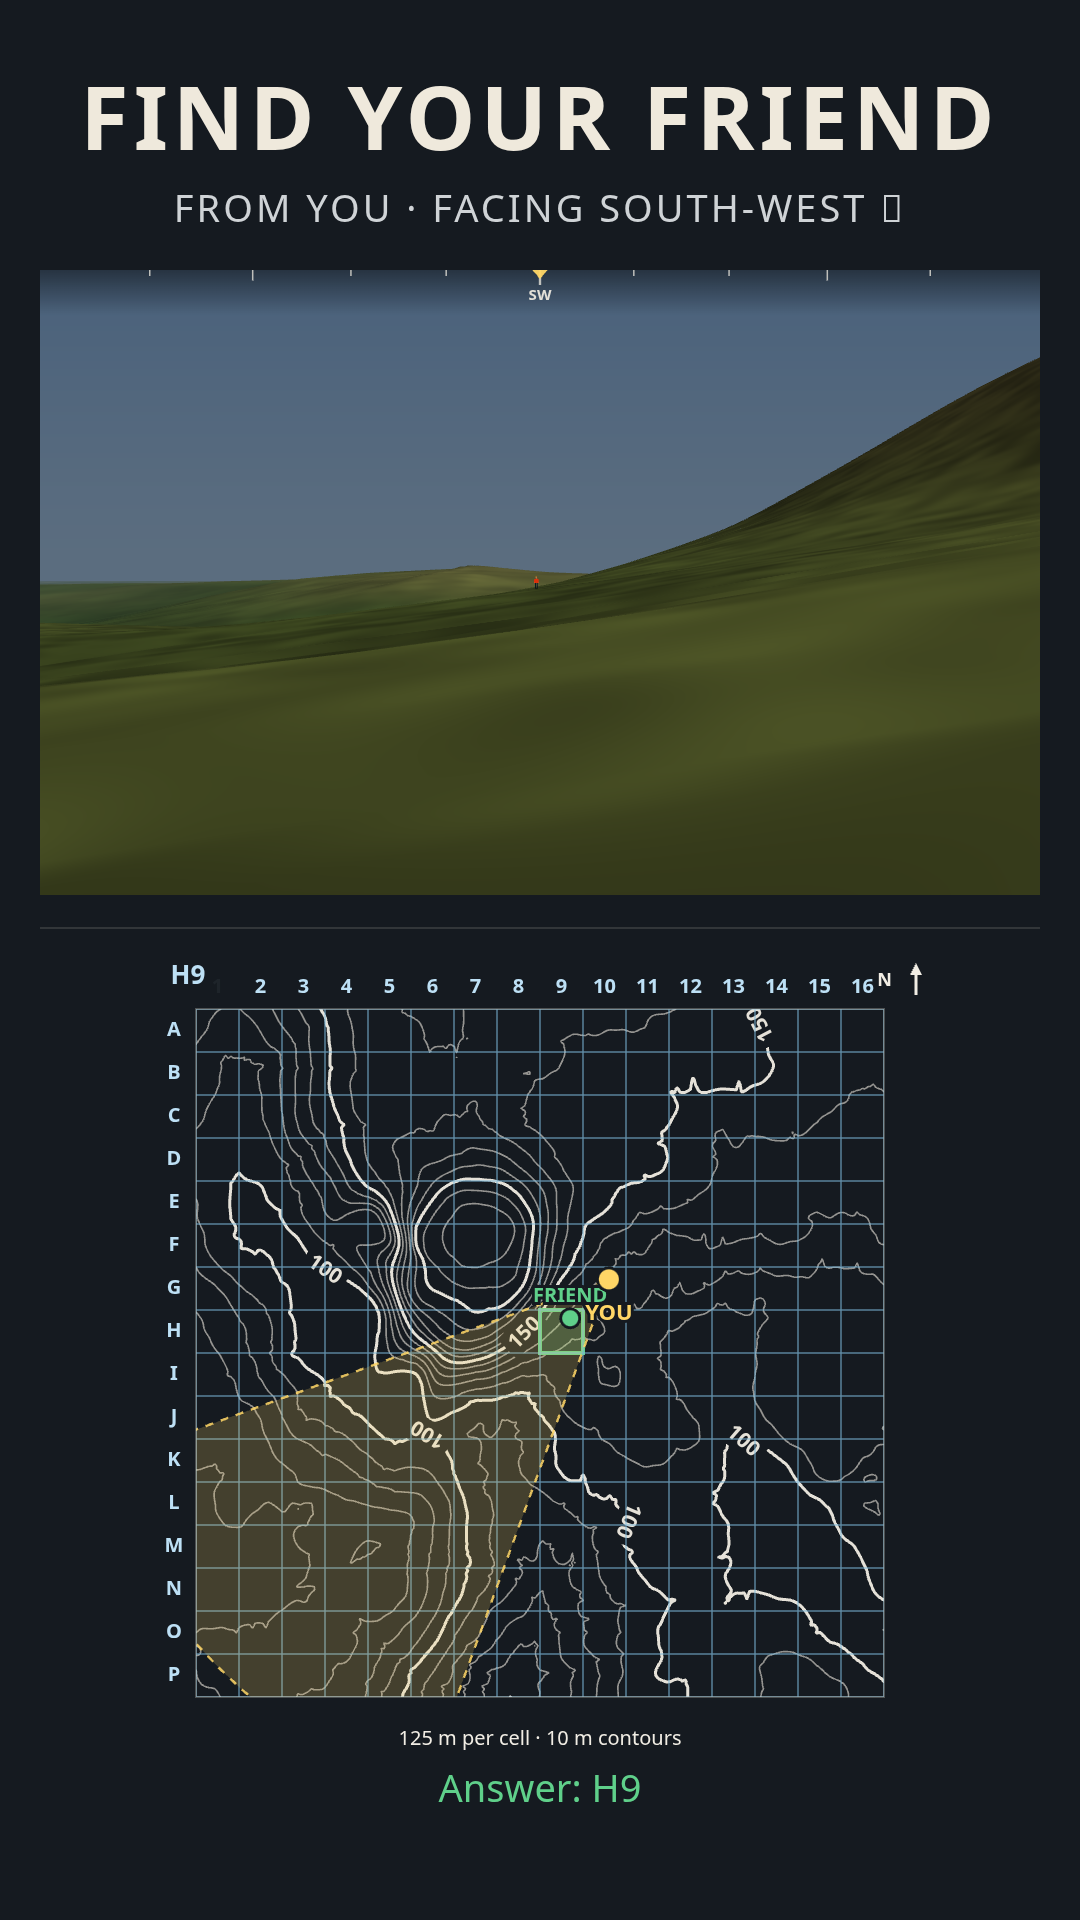
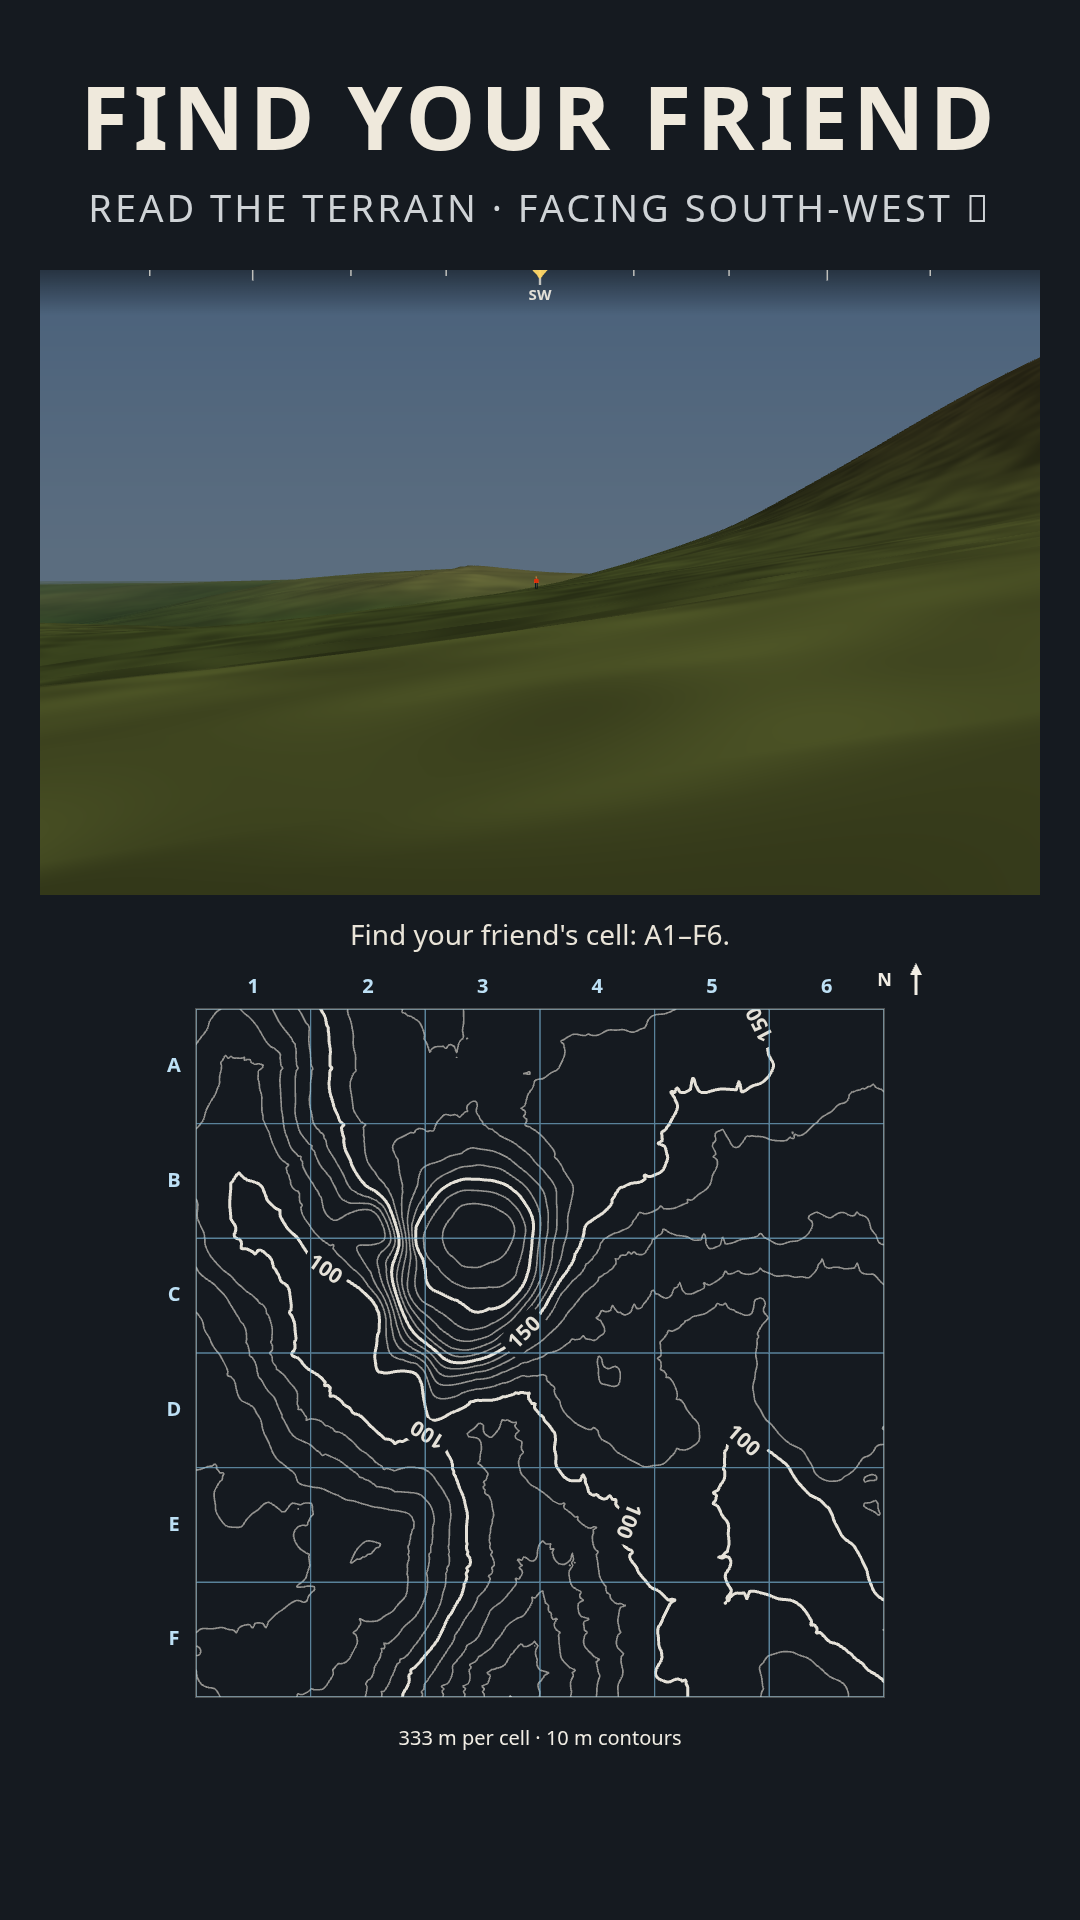
Keep grid contours clear and add six-by-six quizzes

diff --git a/index.html b/index.html
@@ -62,6 +62,7 @@
         <span>Grid size</span>
         <select id="grid-size" aria-label="Grid size">
           <option value="4">4 × 4 grid</option>
+          <option value="6">6 × 6 grid</option>
           <option value="8">8 × 8 grid</option>
           <option value="16">16 × 16 grid</option>
         </select>
@@ -231,7 +232,7 @@
         <p>Observer positions are scored on skyline, landmarks and occlusion. Distractors are picked from spots whose view, facing the same way, looks similar but can still be told apart.</p>
         <p>Master mode fully evaluates dozens of viewpoints and keeps the question whose distractors are hardest to rule out. Every distractor still differs visibly somewhere in the scene, and the answer screen shows where.</p>
         <p>"Which way are you facing?" marks where you stand and hides the heading. Pick the one of 8 directions whose view matches, which works best by comparing the skyline with the contours around the point.</p>
-        <p>Grid method divides the map into 4 × 4, 8 × 8 or 16 × 16 cells. Rows A–P run from north to south; columns 1–16 run from west to east. You stand at a cell centre. Tap that cell or enter its code, then check your answer. Lost compass hides the heading, so you must work out the view's direction from the terrain too.</p>
+        <p>Grid method divides the map into 4 × 4, 6 × 6, 8 × 8 or 16 × 16 cells. Rows A–P run from north to south; columns 1–16 run from west to east. You stand at a cell centre. Tap that cell or enter its code, then check your answer. Lost compass hides the heading, so you must work out the view's direction from the terrain too.</p>
         <p>Where is your friend? See an orange-jacketed, 1.80 m person from your own viewpoint and choose his position at A, B or C. Easy marks where you stand as YOU. Medium and above leave your position unmarked and match the three answers for range, bearing and apparent size: read the skyline, slopes and hollows to locate him. Higher levels select more similar terrain; Depth trap also matches the person’s elevation angle more closely. After answering, YOU is revealed and you can compare the possible observer view for each answer. Zoom helps inspect the person without changing your position.</p>
         <p>Bunny-hop trails plays a 12-second first-person run across the terrain with original CS 1.6 Classic, CS:GO Default or Butterfly green-screen footage. Which path did you follow: A red, B green or C cyan? All three map traces advance together and share their shape, speed and turns. Match the moving skyline and nearby slopes. After answering, replay each candidate and compare its terrain clues. Space pauses, F replays the knife animation, and the timeline replays any moment. Video exports use the same run and reveal the answer in the final 3 seconds.</p>
         <p class="keys">Keys: <kbd>A</kbd>–<kbd>D</kbd> answer · <kbd>S</kbd> scramble letters · <kbd>P</kbd> new positions · <kbd>N</kbd> new quiz · "Which way?": <kbd>Q</kbd><kbd>W</kbd><kbd>E</kbd> / <kbd>A</kbd><kbd>D</kbd> / <kbd>Z</kbd><kbd>X</kbd><kbd>C</kbd> as a compass rose</p>

diff --git a/src/ui/app.js b/src/ui/app.js
@@ -274,13 +274,14 @@ function show(quiz) {
   $('facing-arrow').textContent = quiz.mode === 'trail' || headingHidden(quiz) || quiz.heading.mode === 'exact' ? '' : quiz.heading.arrow;
   $('prompt').textContent = facing ? 'You stand at the marked point. Which of the 8 directions are you looking in?'
     : lookalike ? 'A, B and C have similar views in this direction. Match the ridge shapes and foreground to find your point.'
-    : friendGrid ? `Find the orange-jacketed person's cell.${quiz.friend.observerHidden ? ' Your own position is unmarked; read the skyline, slopes and hollows.' : ' You stand at YOU; use bearing, apparent size and the terrain.'} Tap a cell or type its code, then check your answer. Rows start at north; columns start at west. Locate your friend, not your own cell.`
-    : grid ? `You stand at a cell centre.${headingHidden(quiz) ? ' Your heading is one of 8 directions, hidden until you answer.' : ''} Tap your cell or type its code, then check your answer. Rows start at north; columns start at west.`
+    : grid ? `${friendGrid ? "Locate your friend's cell" : 'Find your cell'}: A1–${String.fromCharCode(64 + quiz.grid.size)}${quiz.grid.size} (row + column, e.g. B3).`
     : quiz.mode === 'trail' ? 'Which trail did you follow: A red, B green or C cyan? All three traces advance together. Match the slopes, ridges and hollows in the moving view. Circles mark the starts; arrows mark the ends.'
     : quiz.mode === 'friend' ? quiz.friend.observerHidden
       ? `Where is the person in the orange jacket: A, B or C? Your position is unmarked. All three spots fit his distance and apparent size; use the skyline, slopes and hollows to locate him.${quiz.friend.challenge === 'depth-trap' ? ' Depth trap also matches his vertical angle more closely.' : ''}`
       : `You stand at YOU. Where is the person in the orange jacket: A, B or C?${quiz.friend.challenge === 'depth-trap' ? ' All three spots share a bearing — compare distance, apparent size and slope.' : ' Match his position to the surrounding terrain.'}`
     : 'You are at one of the marked points, facing the direction shown. Which one?';
+  $('prompt').classList.toggle('grid-remark', grid);
+  (grid ? document.querySelector('.map-wrap') : document.querySelector('.answer-row')).before($('prompt'));
   $('credit').textContent = `seed ${quiz.seed}${quiz.variant ? ` · positions #${quiz.variant}` : ''} · ${DIFFICULTIES[quiz.difficulty].label.toLowerCase()} · ${Math.round(t.size / 1000 * 10) / 10} km × ${Math.round(t.size / 1000 * 10) / 10} km`;
   $('viewing-badge').hidden = true;
   $('result').hidden = true;

diff --git a/src/export/composer.js b/src/export/composer.js
@@ -124,6 +124,7 @@ export class ExportComposer {
         title: { y: 150, size: 88 }, facing: { y: 222, size: 38 },
         scene: { x: m, y: 270, w: sceneW, h: sceneH },
         rule: 270 + sceneH + 32,
+        remark: { y: 270 + sceneH + 50, size: 28 },
         map: { x: (W - map) / 2, y: 270 + sceneH + 58, s: map },
         caption: { y: H - 118, size: 38 }, handle: { y: H - 56, size: 28 },
       };
@@ -135,6 +136,7 @@ export class ExportComposer {
       title: { y: 100, size: 66 }, facing: { y: 152, size: 30 },
       scene: { x: m, y: 185, w: sceneW, h: sceneH },
       rule: 185 + sceneH + 18,
+      remark: { y: 185 + sceneH + 46, size: 26 },
       map: { x: (W - map) / 2, y: 185 + sceneH + 30, s: map },
       caption: null, handle: { y: H - 22, size: 24 },
     };
@@ -221,8 +223,10 @@ export class ExportComposer {
       ctx.fillRect(S.x, S.y + S.h + 8, S.w * p, 6);
     }
 
-    ctx.fillStyle = 'rgba(230, 226, 214, 0.14)';
-    ctx.fillRect(S.x, L.rule, S.w, 2);
+    if (!q.grid) {
+      ctx.fillStyle = 'rgba(230, 226, 214, 0.14)';
+      ctx.fillRect(S.x, L.rule, S.w, 2);
+    }
 
     const M = L.map;
     if (frame) {
@@ -236,11 +240,17 @@ export class ExportComposer {
     ctx.drawImage(reveal ? this.mapRevealCanvas : this.mapCanvas, M.x, M.y, M.s, M.s);
 
     ctx.textAlign = 'center';
-    if (L.caption && this.options.caption) {
+    if (q.grid && (this.options.caption || reveal)) {
+      // One remark above the grid in both formats, including video frames.
+      // Draw after the map so its empty header margin cannot erase the text.
+      ctx.font = `500 ${L.remark.size}px ${FONT}`;
+      ctx.fillStyle = reveal ? '#5fd08a' : '#e9e4d8';
+      ctx.fillText(reveal ? `Answer: ${q.correctLabel}` : captionText(q), W / 2, L.remark.y, W - 80);
+    } else if (!q.grid && L.caption && this.options.caption) {
       ctx.font = `500 ${L.caption.size}px ${FONT}`;
       ctx.fillStyle = reveal ? '#5fd08a' : '#e9e4d8';
       ctx.fillText(reveal ? `Answer: ${q.correctLabel}` : captionText(q), W / 2, L.caption.y);
-    } else if (reveal) {
+    } else if (!q.grid && reveal) {
       this.drawBadge(`Answer: ${q.correctLabel}`, W / 2, M.y + 34);
     }
     if (this.options.handle) {

diff --git a/test/grid-quiz.test.js b/test/grid-quiz.test.js
@@ -9,7 +9,7 @@ import { scrambleLabels } from '../src/engine/scramble.js';
 import { captionText } from '../src/export/composer.js';
 
 test('grid references run A1 west to east, then B1 north to south', () => {
-  for (const n of [4, 8, 16]) {
+  for (const n of [4, 6, 8, 16]) {
     const cells = gridCells(2000, n);
     assert.equal(cells.length, n * n);
     assert.equal(new Set(cells.map((p) => p.label)).size, n * n);
@@ -26,9 +26,13 @@ test('grid references run A1 west to east, then B1 north to south', () => {
 test('cell input accepts compact or spaced codes and rejects out-of-grid codes', () => {
   assert.equal(parseCell(' b 3 ', 4), 'B3');
   assert.equal(parseCell('p16', 16), 'P16');
+  assert.equal(parseCell('f6', 6), 'F6');
+  assert.equal(parseCell('G1', 6), null);
+  assert.equal(parseCell('A7', 6), null);
   for (const value of ['A0', 'A01', 'A5', 'E1', 'A1junk', '<b>A1</b>', '', '11']) assert.equal(parseCell(value, 4), null);
   assert.equal(parseCell('P17', 16), null);
   assert.equal(normaliseGridSize('8'), 8);
+  assert.equal(normaliseGridSize('6'), 6);
   assert.equal(normaliseGridSize('invalid'), 4);
 });
 
@@ -49,7 +53,7 @@ test('rotating the display preserves grid references and pointer hit testing', (
   }
 });
 
-for (const gridSize of [4, 8, 16]) for (const gridChallenge of ['standard', 'lost-compass']) {
+for (const gridSize of [4, 6, 8, 16]) for (const gridChallenge of ['standard', 'lost-compass']) {
   test(`${gridSize}×${gridSize} ${gridChallenge} creates a validated cell-centre question`, async () => {
     const q = await generate({ seed: 'grid-check', mode: 'grid', gridSize, gridChallenge, difficulty: 'medium' });
     assert.equal(q.mode, 'grid');

diff --git a/src/render/mapRenderer.js b/src/render/mapRenderer.js
@@ -328,23 +328,12 @@ export class MapRenderer {
       ctx.lineWidth = 3; ctx.strokeStyle = COLORS.bg; ctx.strokeText(text, x, y);
       ctx.fillStyle = '#bde0f5'; ctx.fillText(text, x, y);
     };
-    // Headers rotate with the terrain, while text stays upright. Dense mobile
-    // grids use these headers instead of covering contours with 256 tiny codes.
+    // References come from the edge headers; keep cell interiors clear so the
+    // contours stay readable at every grid size. Text stays upright on rotation.
     const offset = 11 / this.S * L;
     for (let i = 0; i < n; i++) {
       label(String(i + 1), ...this.toCanvas(left + (i + 0.5) / n * L, bottom + L + offset));
       label(String.fromCharCode(65 + i), ...this.toCanvas(left - offset, bottom + L - (i + 0.5) / n * L));
-    }
-    if (n <= 8 || this.S / n >= 30) {
-      const font = Math.min(11, Math.max(8, this.S / n * 0.23));
-      for (let row = 0; row < n; row++) for (let col = 0; col < n; col++) {
-        label(`${String.fromCharCode(65 + row)}${col + 1}`, ...this.toCanvas(left + (col + 0.5) / n * L, bottom + L - (row + 0.5) / n * L), font);
-      }
-    }
-    const active = this.reveal ? this.data.grid.correctLabel : this.selection || (this.pickable ? this.hover : null);
-    if (active) {
-      ctx.fillStyle = 'rgba(21,26,32,0.95)'; ctx.fillRect(0, 0, 48, 24);
-      label(active, 24, 12, 13);
     }
   }
 

diff --git a/test/friend-grid.test.js b/test/friend-grid.test.js
@@ -6,7 +6,7 @@ import { MapRenderer, quizMarkers } from '../src/render/mapRenderer.js';
 import { ExportComposer, captionText } from '../src/export/composer.js';
 import { scrambleLabels } from '../src/engine/scramble.js';
 
-for (const difficulty of ['easy', 'medium']) for (const gridSize of [4, 8, 16]) {
+for (const difficulty of ['easy', 'medium']) for (const gridSize of [4, 6, 8, 16]) {
   test(`${difficulty} friend grid ${gridSize} scores the person's cell and preserves the qualified sighting`, async () => {
     const opts = { seed: 'friend-demo', mode: 'friend', difficulty };
     const point = await generate(opts);

diff --git a/src/engine/gridQuiz.js b/src/engine/gridQuiz.js
@@ -9,7 +9,7 @@ import { distinguishingCue } from './quizCandidates.js';
 import { buildTerrain, terrainSummary, landmarkSummary, framingPitch, now } from './quiz.js';
 import { saturate } from './grid.js';
 
-export const GRID_SIZES = [4, 8, 16];
+export const GRID_SIZES = [4, 6, 8, 16];
 export const normaliseGridSize = (value) => GRID_SIZES.includes(Number(value)) ? Number(value) : 4;
 export const normaliseGridChallenge = (value) => value === 'lost-compass' ? value : 'standard';
 export const headingHidden = (quiz) => quiz.mode === 'facing' || (quiz.mode === 'grid' && quiz.grid.challenge === 'lost-compass');

diff --git a/styles.css b/styles.css
@@ -79,6 +79,7 @@ body {
 .map-wrap canvas { width: 100%; height: 100%; display: block; }
 
 .prompt { text-align: center; color: var(--muted); margin: 10px 0 8px; font-size: 14px; }
+.prompt.grid-remark { margin: 0 0 8px; }
 .answer-row { display: flex; flex-direction: column; align-items: center; gap: 10px; }
 .scramble { display: inline-flex; align-items: center; gap: 6px; font-size: 13px; padding: 6px 12px; }
 .scramble svg { width: 16px; height: 16px; }

diff --git a/docs/friend-mode.md b/docs/friend-mode.md
@@ -2,13 +2,13 @@
 
 Choose **Where is your friend?** in Mode. The orange-jacketed, 1.80 m person is seen from your own observation point. Choose his map position at A, B or C.
 
-Choose **Find friend by → Grid** to locate him by cell reference instead. Pick a **4 × 4**, **8 × 8** or **16 × 16** grid, tap his cell or type a code such as `B3`, then press **Check cell**. Selection does not submit immediately. Rows run north to south and columns west to east; references follow the terrain when the map rotates.
+Choose **Find friend by → Grid** to locate him by cell reference instead. Pick a **4 × 4**, **6 × 6**, **8 × 8** or **16 × 16** grid, tap his cell or type a code such as `B3`, then press **Check cell**. Selection does not submit immediately. Rows run north to south and columns west to east; references follow the terrain when the map rotates. Only the edge headers carry labels, leaving the contours inside each cell clear. The instruction appears once, between the view and map, in the app and in PNG/video exports.
 
 Grid scores the cell containing **your friend**, not the observer. The person keeps his real world position and may stand anywhere inside a cell. The answer highlights his cell green, a wrong choice red, and marks his exact location **FRIEND** alongside the observer **YOU**. Zoom remains available from the original viewpoint. Easy's grid covers the local map; higher levels cover the fixed full terrain. Point and Grid use the same qualified sighting and visibility checks, with Grid replacing the three marked choices with map cells.
 
-Replay links include `fa=grid&g=4|8|16`, for example `#seed=friend-demo&d=medium&m=friend&fa=grid&g=8`. New positions, both challenges, PNG and video exports also support Grid. Question exports hide FRIEND and retain the existing hidden-observer rule; answer exports show the correct cell and exact friend position. The existing **Point — A / B / C** setting remains available.
+Replay links include `fa=grid&g=4|6|8|16`, for example `#seed=friend-demo&d=medium&m=friend&fa=grid&g=6`. New positions, both challenges, PNG and video exports also support Grid. Question exports hide FRIEND and retain the existing hidden-observer rule; answer exports show the correct cell and exact friend position, with the answer remark replacing the question above the map. The existing **Point — A / B / C** setting remains available.
 
-![Friend grid answer preview](friend-grid.png)
+![6 × 6 friend grid question preview](friend-grid.png)
 
 - **Easy** marks your observation point as YOU on a local map. Use bearing, apparent size, elevation and the surrounding contours. Answer comparisons move the person while keeping the camera fixed.
 - **Medium and above** leave your position unmarked until the answer. All three candidate targets have plausible observation points at the same range and bearing, with almost identical apparent body heights. Distance alone cannot eliminate a letter: match the skyline, slopes and hollows to infer where you stand and where your friend is.

diff --git a/README.md b/README.md
@@ -72,7 +72,7 @@ Open **Export for Instagram**; the dialog previews the 15 s loop with the event.
 
 ## Friend location mode
 
-**Where is your friend?** shows a small 3D person from your own viewpoint. Choose **Point — A / B / C** or **Grid — cell reference** to answer. Grid supports 4 × 4, 8 × 8 and 16 × 16: tap or type the friend's cell, then check; the answer shows his exact position and your observation point. Easy marks where you stand as YOU. Medium and above hide the observer and give each A/B/C target a plausible observation point with the same range, bearing and apparent body size. Match the skyline and intervening slopes to locate him. Expert and Master also use similar target landforms; **Depth trap** tightens the elevation-angle match. **Zoom 3×** helps inspect the sighting. After answering, YOU is revealed and Point comparisons show each possible observer view. See [the friend mode guide](docs/friend-mode.md).
+**Where is your friend?** shows a small 3D person from your own viewpoint. Choose **Point — A / B / C** or **Grid — cell reference** to answer. Grid supports 4 × 4, 6 × 6, 8 × 8 and 16 × 16: tap or type the friend's cell, then check; the answer shows his exact position and your observation point. Easy marks where you stand as YOU. Medium and above hide the observer and give each A/B/C target a plausible observation point with the same range, bearing and apparent body size. Match the skyline and intervening slopes to locate him. Expert and Master also use similar target landforms; **Depth trap** tightens the elevation-angle match. **Zoom 3×** helps inspect the sighting. After answering, YOU is revealed and Point comparisons show each possible observer view. See [the friend mode guide](docs/friend-mode.md).
 
 ## Bunny-hop trails
 
@@ -208,7 +208,7 @@ test/         node:test suite
 
 ## Grid method
 
-The Mode menu includes 4 × 4, 8 × 8 and 16 × 16 grids with references such as A1,
+The Mode menu includes 4 × 4, 6 × 6, 8 × 8 and 16 × 16 grids with references such as A1,
 B3 and P16. Tap a cell or enter its code, then check your answer. The **Lost
 compass** challenge hides the heading and requires terrain-based orientation.
 See [the grid guide](docs/grid-mode.md) for controls, generation and export details.

diff --git a/docs/grid-mode.md b/docs/grid-mode.md
@@ -1,6 +1,6 @@
 # Grid method
 
-Choose **Grid method** in the Mode menu, then select **4 × 4**, **8 × 8** or
+Choose **Grid method** in the Mode menu, then select **4 × 4**, **6 × 6**, **8 × 8** or
 **16 × 16**. Difficulty still controls the terrain, field of view, heading style,
 map rotation and the minimum view difference between answers.
 
@@ -20,8 +20,10 @@ ground. Match the first-person terrain to the contour map, then:
 
 Tapping only selects; it does not submit. The text input also provides a keyboard
 alternative to the canvas and makes 16 × 16 practical on a small phone.
-Dense maps show row and column headers instead of placing tiny codes over every
-contour. Hovering or selecting displays the full cell code.
+All grid sizes use row and column headers, keeping cell interiors clear of codes
+so the contours stay readable. A single instruction between the view and map
+explains the cell reference. Selection highlights the cell and shows its code in
+the answer input.
 
 The result highlights the true cell green and a wrong choice red. The view cone
 shows the true camera's field of view. Compare the true origin, your chosen cell
@@ -64,7 +66,7 @@ answer set finite and explicit.
 
 ## Replay and export
 
-Grid links add `m=grid&g=4|8|16` to the hash. Lost compass adds
+Grid links add `m=grid&g=4|6|8|16` to the hash. Lost compass adds
 `gc=lost-compass`. Standard heading overrides use the existing `h` field. Seed,
 difficulty, position variant and developer tuning continue to travel in links.
 Cell references cannot be scrambled. **New positions** keeps the seed and draws
